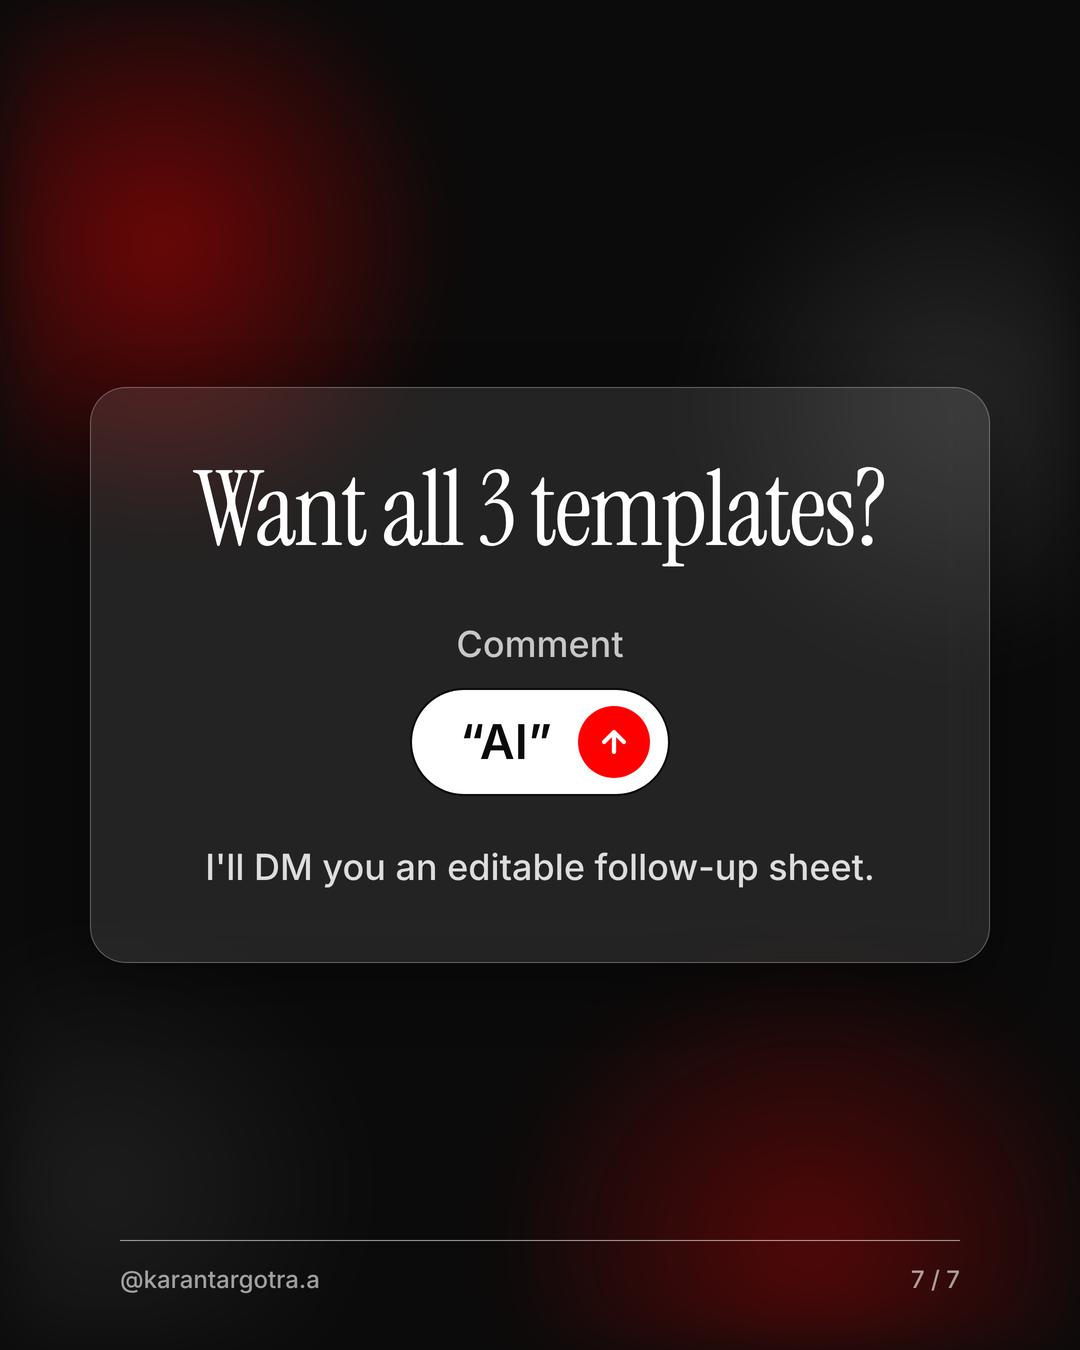
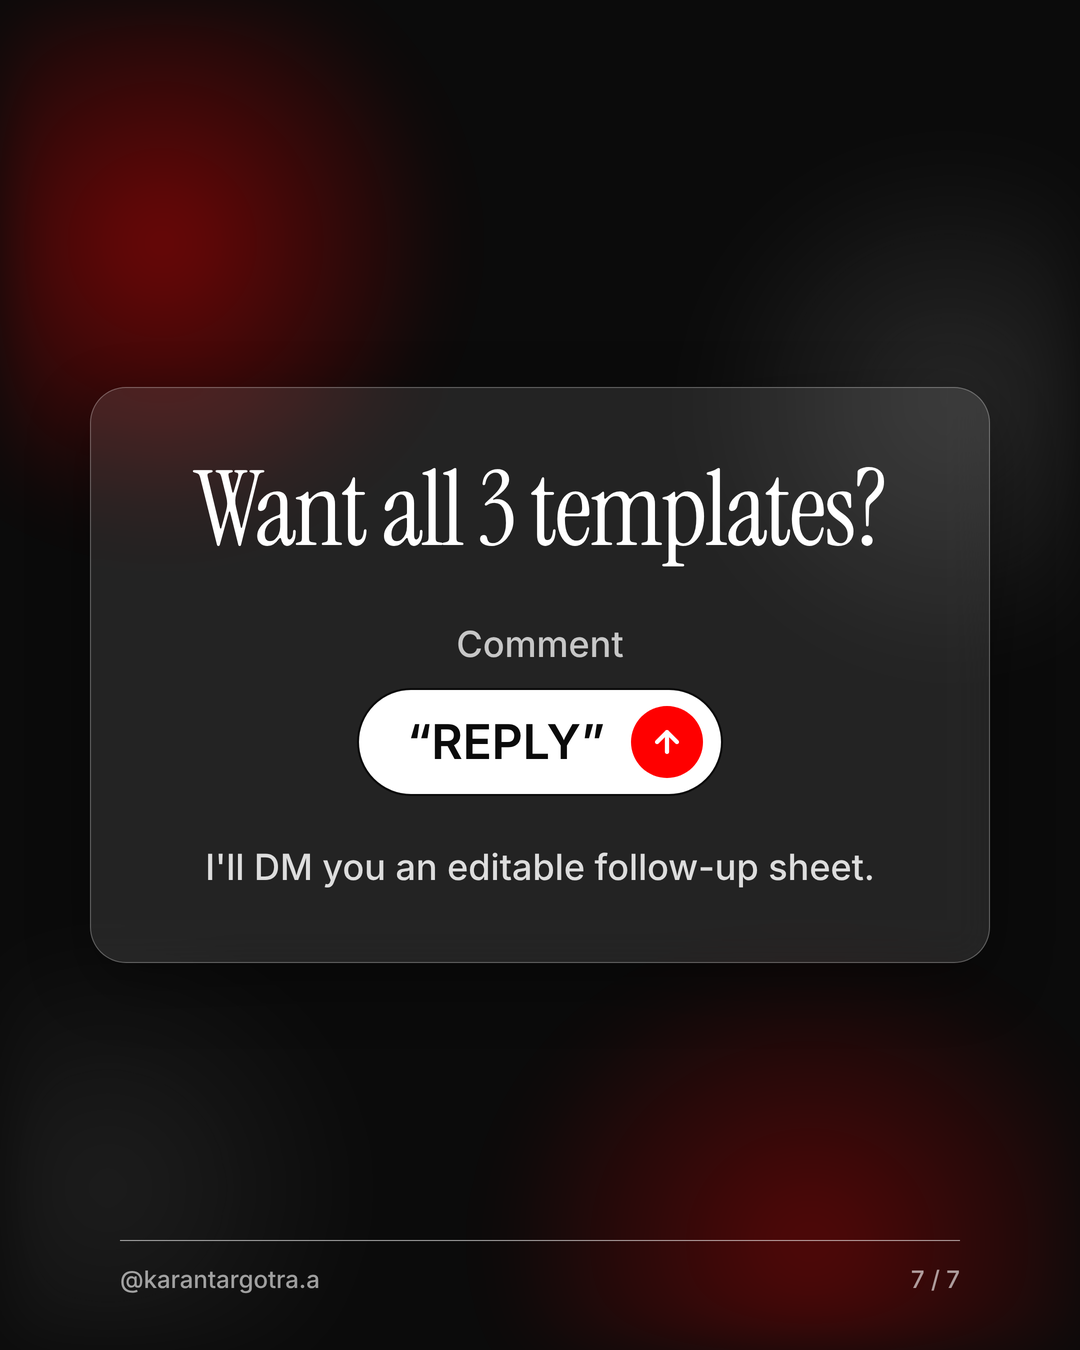
Unique comment keyword per post (NOV, PROFILE, AUTO, REPLY, TEST, TASKS, PROMPT, LEADS, EDIT); re-export all designs and packs
Claude-Session: https://claude.ai/code/session_01EwSRgi461yGSE7PSpZwDes

Changed region(s): [[0.3056, 0.4978, 0.6722, 0.5911]]

diff --git a/editor (karan personal)/projects/freebies/DM_AUTOMATION_SETUP.md b/editor (karan personal)/projects/freebies/DM_AUTOMATION_SETUP.md
@@ -1,18 +1,19 @@
-# Comment "AI" → DM automation (copy-paste per post)
+# Comment keyword → DM automation (copy-paste per post)
 
-Set up one automation **per post** (trigger = comment on that specific post contains `AI`, any capitalisation).
+Set up one automation **per post**. Each post has its OWN keyword (trigger = comment on that post contains the keyword, any capitalisation).
 Public comment reply (same for all): **Sent! Check your DMs 📩**. Drop the emoji if your tool adds its own.
 
-| Post (slot IST) | DM message | Link status |
-|---|---|---|
-| W45 C1 · Tue 3 Nov 7:30 pm | Hi! Here's your 4-point profile checklist. Open it, check your own profile and fix one thing today: https://drive.google.com/file/d/1JRtNzHWYvK1J38hK-u6R1mcCkW37OFtF/view | ✅ live, public |
-| W45 S1 · Thu 5 Nov 1:00 pm | Hi! Here's the Comment → DM setup guide, 5 steps from keyword to test: https://drive.google.com/file/d/1vjoEFDegeMC_0jJ8UzZbdNmv3X6iyMcL/view | ✅ live, public |
-| W45 C2 · Sat 7 Nov 11:00 am | Hi! Here's the WhatsApp follow-up sheet: 3 messages, 2 bonus templates and a tracking sheet: https://drive.google.com/file/d/1iynnbl5LYGogF4J8TaLZKJXxJzEt0AbV/view | ✅ live, public |
-| W45 S2 · Sun 8 Nov 7:30 pm | Hi! Here's the AI tool test sheet. Run it on your next tool before you pay: https://drive.google.com/file/d/1xiZYDpqCH3Bf-ZaT9cUjvyWtdZUQInhk/view | ✅ live, public |
-| W46 C1 · Tue 10 Nov 7:30 pm | Hi! Here are the prompts for all 5 tasks. Fill in the [brackets] and paste: https://drive.google.com/file/d/1nK0HdhdBjXBKolW4G-7h-YB9x2_HkMfi/view | ✅ live, public |
-| W46 S1 · Thu 12 Nov 1:00 pm | Hi! Here are 10 ready prompts for marketing. Copy, fill in, paste: https://drive.google.com/file/d/1q_1LN2DFRS1BsPV8bzCS1vQd4SoRy8ub/view | ✅ live, public |
-| W46 C2 · Sat 14 Nov 11:00 am | Hi! Here's the lead-leak checklist. Go through it before you raise your budget: https://drive.google.com/file/d/1k7nZ7xSbRUrl43d6rXj7uX_TxytzudmJ/view | ✅ live, public |
-| W46 S2 · Sun 15 Nov 7:30 pm | Hi! Here's my AI content editing checklist, 11 checks before you post: https://drive.google.com/file/d/1YIPRbBhohnHd-SxVOjfMp-dSWnQUE5yl/view | ✅ live, public |
+| Post (slot IST) | Keyword | DM message | Link status |
+|---|---|---|---|
+| Month start · Sun 1 Nov 7:30 pm | **NOV** | Hi! Welcome to November. Here is your first free resource, my 4-point profile checklist: https://drive.google.com/file/d/1JRtNzHWYvK1J38hK-u6R1mcCkW37OFtF/view | ✅ live, public |
+| W45 C1 · Tue 3 Nov 7:30 pm | **PROFILE** | Hi! Here's your 4-point profile checklist. Open it, check your own profile and fix one thing today: https://drive.google.com/file/d/1JRtNzHWYvK1J38hK-u6R1mcCkW37OFtF/view | ✅ live, public |
+| W45 S1 · Thu 5 Nov 1:00 pm | **AUTO** | Hi! Here's the Comment → DM setup guide, 5 steps from keyword to test: https://drive.google.com/file/d/1vjoEFDegeMC_0jJ8UzZbdNmv3X6iyMcL/view | ✅ live, public |
+| W45 C2 · Sat 7 Nov 11:00 am | **REPLY** | Hi! Here's the WhatsApp follow-up sheet: 3 messages, 2 bonus templates and a tracking sheet: https://drive.google.com/file/d/1iynnbl5LYGogF4J8TaLZKJXxJzEt0AbV/view | ✅ live, public |
+| W45 S2 · Sun 8 Nov 7:30 pm | **TEST** | Hi! Here's the AI tool test sheet. Run it on your next tool before you pay: https://drive.google.com/file/d/1xiZYDpqCH3Bf-ZaT9cUjvyWtdZUQInhk/view | ✅ live, public |
+| W46 C1 · Tue 10 Nov 7:30 pm | **TASKS** | Hi! Here are the prompts for all 5 tasks. Fill in the [brackets] and paste: https://drive.google.com/file/d/1nK0HdhdBjXBKolW4G-7h-YB9x2_HkMfi/view | ✅ live, public |
+| W46 S1 · Thu 12 Nov 1:00 pm | **PROMPT** | Hi! Here are 10 ready prompts for marketing. Copy, fill in, paste: https://drive.google.com/file/d/1q_1LN2DFRS1BsPV8bzCS1vQd4SoRy8ub/view | ✅ live, public |
+| W46 C2 · Sat 14 Nov 11:00 am | **LEADS** | Hi! Here's the lead-leak checklist. Go through it before you raise your budget: https://drive.google.com/file/d/1k7nZ7xSbRUrl43d6rXj7uX_TxytzudmJ/view | ✅ live, public |
+| W46 S2 · Sun 15 Nov 7:30 pm | **EDIT** | Hi! Here's my AI content editing checklist, 11 checks before you post: https://drive.google.com/file/d/1YIPRbBhohnHd-SxVOjfMp-dSWnQUE5yl/view | ✅ live, public |
 
 Rules: send only what the post promised. Reply personally to anyone who asks a follow-up question.
 Verified 31 Oct 2026: all 8 files (01–08) are shared as "Anyone with the link: Viewer".

diff --git a/editor (karan personal)/changelog/STYLE_UPDATES.md b/editor (karan personal)/changelog/STYLE_UPDATES.md
@@ -13,3 +13,4 @@ Format: `YYYY-MM-DD — file changed — what changed — why/source`
 - 2026-10-31 — VISUAL_STYLE_GUIDE §0C, projects/weekly-content/ROTATION_LOG.md — **Karan: don't repeat one carousel look; rotate B+D → B → D** per upload (every 3–4 days). Rotation tracked in ROTATION_LOG.md.
 - 2026-10-31 — VISUAL_STYLE_GUIDE §0C — **Karan: use only my brand colours, no additional colours.** Glows, tags, arrows and tiles are now black/white/red/grey only; yellow highlighter and purple/green/blue glows removed. Logos stay in official colours (pending confirmation).
 - 2026-10-31 — CLAUDE.md, BRAND_PROFILE, CONTENT_EDITING_STYLE — **Karan: all content in English.** Replaces the Hinglish rule for slides, captions and LinkedIn. Comment "AI" CTA unchanged.
+- 2026-10-31 — CLAUDE.md — **Karan: every post's comment keyword must be different, not "AI" every time.** Pill style unchanged; one keyword per post, unique per month, one automation per keyword.

diff --git a/editor (karan personal)/CLAUDE.md b/editor (karan personal)/CLAUDE.md
@@ -38,7 +38,7 @@ Sources: 4 reference reels + Personal Brand content DB (PDF) + Content OS pack (
 - Keep files editable (no flattening to images unless asked).
 - Ask at most ONE question, only if it changes the output. Otherwise assume, state it in one line, execute.
 - Brief replies. **All content deliverables in English** (reels, carousels, statics, captions IG/FB/LinkedIn). Karan switched from Hinglish to English on 31 Oct 2026. Chat with Karan can stay Hinglish.
-- Default CTA everywhere: **Comment "AI"** in pill style. Use another keyword only if Karan asks for it.
+- CTA = Comment pill, but **every post gets its own keyword** (Karan, 31 Oct 2026): short, uppercase, tied to the topic (e.g. PROFILE, LEADS, PROMPT). Never reuse a keyword in the same month. Each keyword needs its own DM automation.
 - India-market aware: ₹, local context.
 
 ## Learning loop
